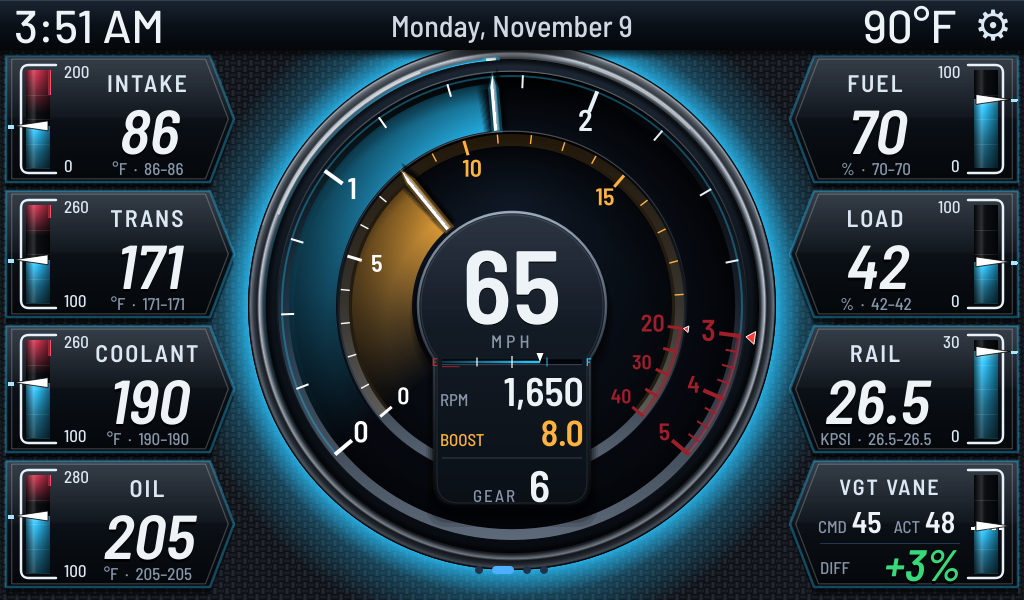
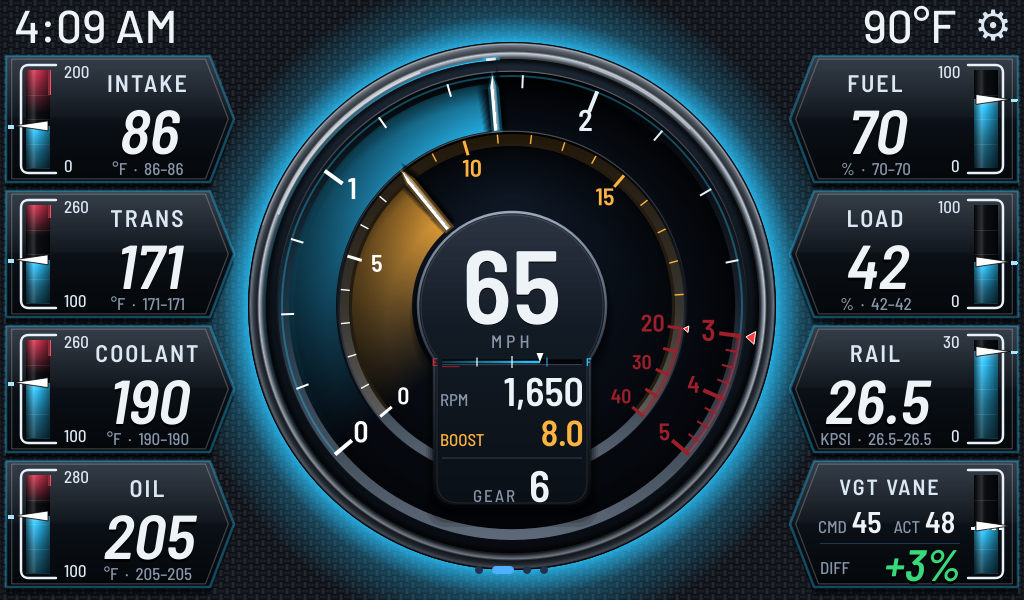
Towing top bar: no background band, so the gauge glow shows through
Claude-Session: https://claude.ai/code/session_01NB1fkpFcGY28RY4JZ8NWPC

Changed region(s): [[0.0, 0.0, 1.0, 0.12]]

diff --git a/gaugeworks/qml/Main.qml b/gaugeworks/qml/Main.qml
@@ -131,10 +131,7 @@ Rectangle {
             visible: root.towBar
             z: 6
             width: parent.width; height: 50
-            gradient: Gradient { GradientStop { position: 0; color: "#1a2532" } GradientStop { position: 0.5; color: "#0a1018" } GradientStop { position: 1; color: "#04070a" } }
-            Rectangle { y: 50; width: parent.width; height: 10
-                        gradient: Gradient { GradientStop { position: 0; color: "#b0000000" } GradientStop { position: 1; color: "transparent" } } }
-            Rectangle { y: 0; width: parent.width; height: 1; color: "#1fffffff" }
+            color: "transparent"   // no band: the gauge glow shows through (JP, 2026-11-09)
             Text {
                 id: towTime
                 x: 14; anchors.verticalCenter: parent.verticalCenter
